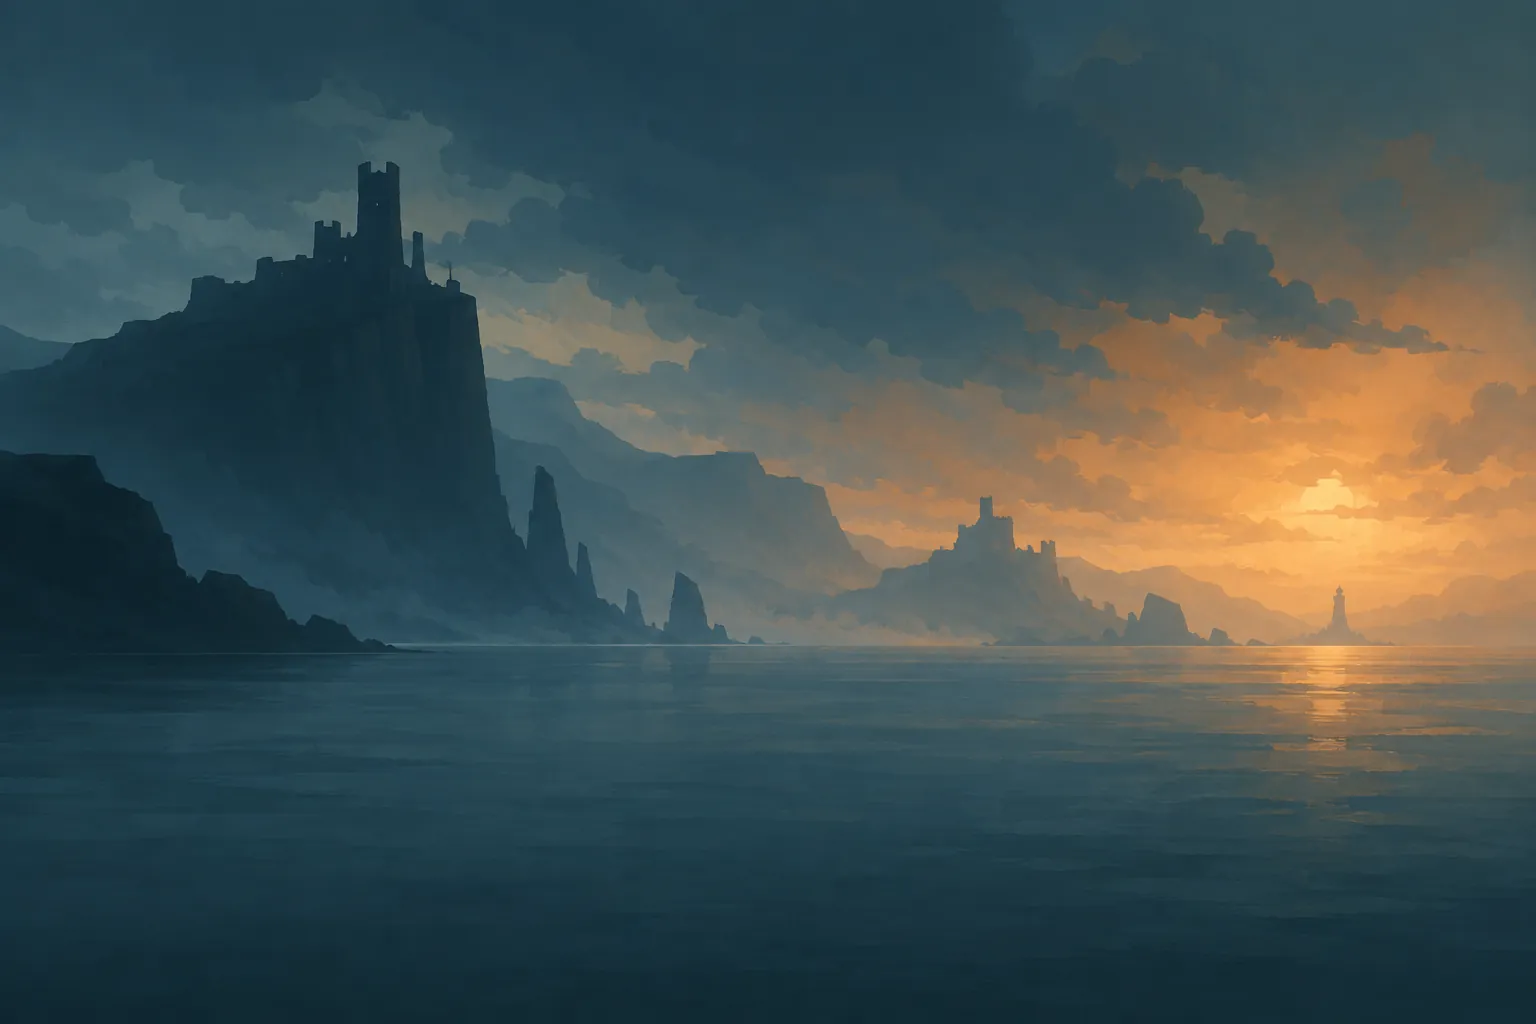
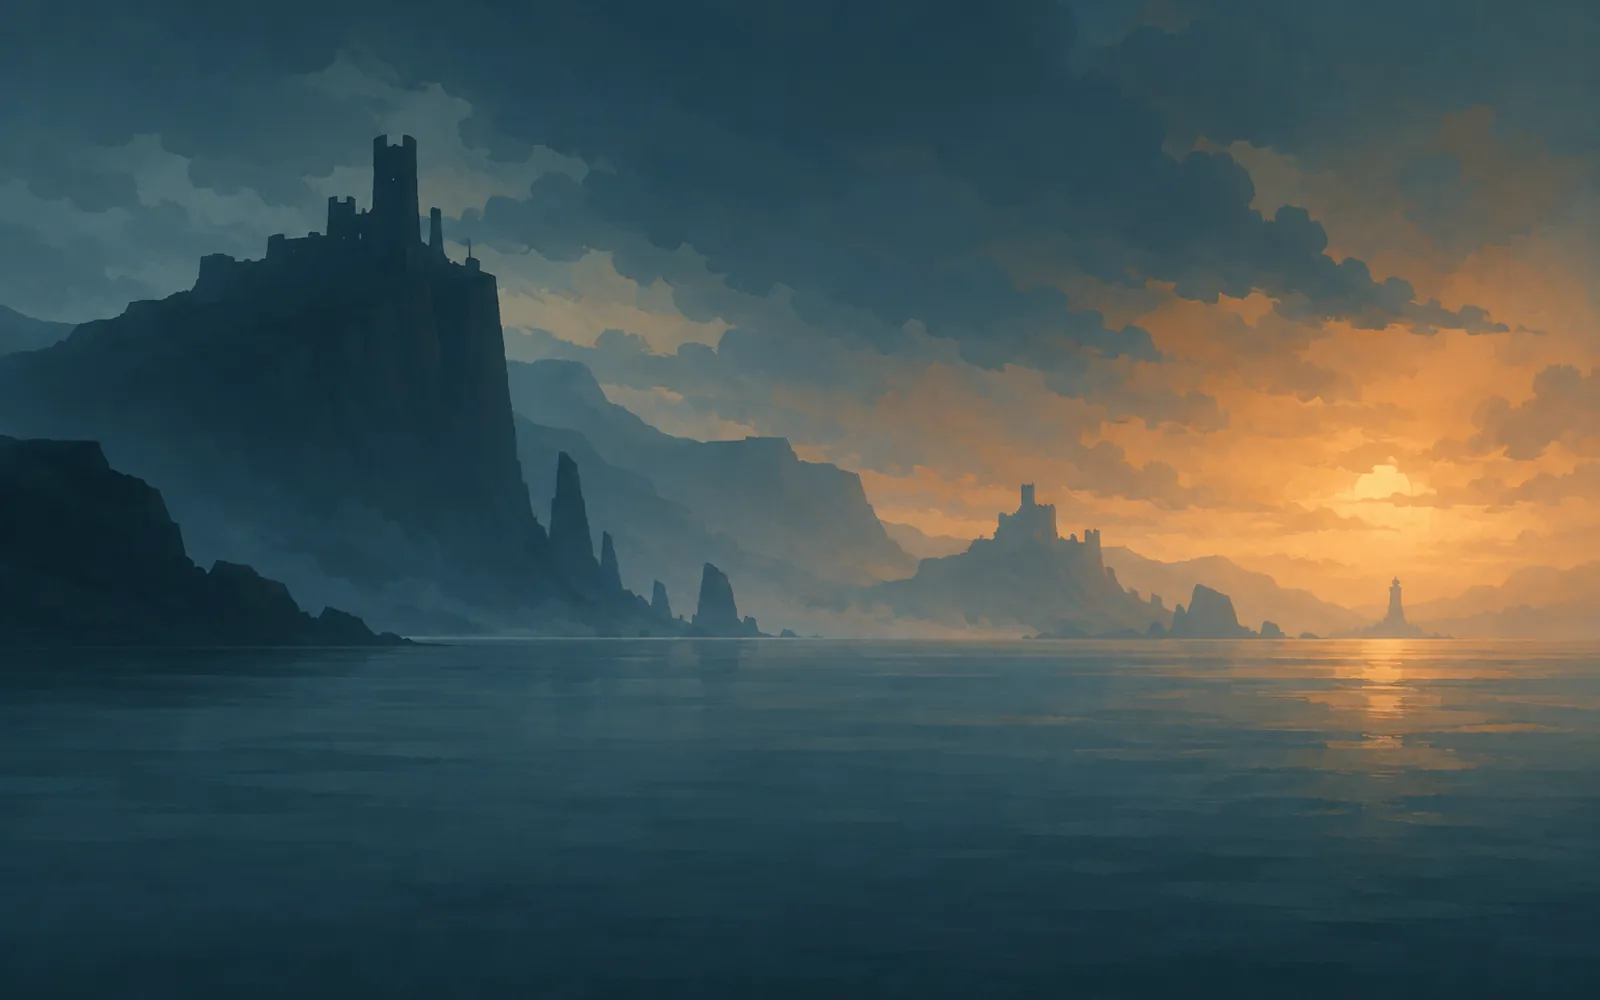
Add five more backdrops, and normalise every image to one aspect
writing, chamber, diary, prophecy and cave are painted; twelve of
forty-seven now have art. All clean — no lettering, no marks.

Two real fixes, one chased at length:

Portrait sources were being STRETCHED to fill a landscape plane, not
cropped. The texture was mapped 0..1 across a plane sized to the viewport,
so a 0.8-ratio image on a 1.6-ratio frame doubled horizontally. Fixed at
the source: optimize-art.mjs now crops every backdrop to a single 1600x1000
landscape, so the shader can assume one shape and the crop is decided by a
tool that can see the image rather than by arithmetic per frame. Layer also
carries cover-fit UVs as a safety net; the first attempt at that had the
scale inverted, which pushed UVs outside 0..1 where the texture clamps and
smears edge pixels into streaks.

The remaining "streaks" turned out not to be a bug at all. Draw-call and
triangle counts showed three planes rendering where one was expected, and
logging the mount window explained it: the screenshots were landing
mid-crossfade, with a painted scene at 53% blended over the NEXT scene,
which has no art yet and was drawing its procedural version underneath.
The procedural Hall of Prophecy's perspective shelf rows over a photograph
are what looked like streaks.

Worth keeping in mind while art is partial: a painted scene cross-fading
into a procedural one looks wrong in a way neither does alone. It resolves
as scenes get art, and it is a transition artifact rather than a defect.
[…]

diff --git a/src/story/Layer.tsx b/src/story/Layer.tsx
@@ -135,9 +135,20 @@ export function Layer({
       ? /* glsl */ `
           uniform sampler2D uMap;
           uniform float uOpacity;
+          uniform vec2 uCover;
           varying vec2 vUv;
           void main() {
-            vec4 c = texture2D(uMap, vUv);
+            // COVER fit, not stretch.
+            //
+            // The plane is sized to the viewport, so mapping the texture 0..1
+            // across it distorts any image whose aspect differs — a portrait
+            // source on a landscape plane gets stretched horizontally, which
+            // reads as horizontal smearing across the whole scene rather than
+            // as an obviously wrong image. uCover rescales UVs about the
+            // centre so the image fills the frame at its true aspect and the
+            // overflow is cropped instead.
+            vec2 uv = (vUv - 0.5) / uCover + 0.5;
+            vec4 c = texture2D(uMap, uv);
             gl_FragColor = vec4(c.rgb, c.a * uOpacity);
           }
         `
@@ -156,7 +167,7 @@ export function Layer({
         uInk: { value: new Color(palette.ink) },
         uAccent: { value: new Color(palette.accent) },
         uPointer: { value: new Vector2() },
-        ...(texture ? { uMap: { value: texture } } : {}),
+        ...(texture ? { uMap: { value: texture }, uCover: { value: new Vector2(1, 1) } } : {}),
       },
     })
   }, [shader, image, texture, palette.background, palette.ink, palette.accent])
@@ -170,6 +181,29 @@ export function Layer({
     if (u.uInk) (u.uInk.value as Color).set(palette.ink)
     if (u.uAccent) (u.uAccent.value as Color).set(palette.accent)
     if (u.uPointer) (u.uPointer.value as Vector2).set(pointer[0], pointer[1])
+
+    // Recomputed per frame because both the image and the viewport can change.
+    if (u.uCover && texture?.image) {
+      const iw = (texture.image as { width?: number }).width ?? 1
+      const ih = (texture.image as { height?: number }).height ?? 1
+      const imageAspect = iw / ih
+      const planeAspect = viewport.width / viewport.height
+      const v = u.uCover.value as Vector2
+      //
+      // The shader divides by uCover, so a value ABOVE 1 narrows the sampled
+      // range — which is what cropping means. Getting this inverted pushes UVs
+      // outside 0..1, where the texture clamps and smears its edge pixels
+      // across the frame as horizontal or vertical streaks. That looks like a
+      // rendering glitch rather than a wrong image, which is what made it hard
+      // to place.
+      if (imageAspect > planeAspect) {
+        // Image is wider than the frame: fill height, crop the sides.
+        v.set(imageAspect / planeAspect, 1)
+      } else {
+        // Image is taller than the frame: fill width, crop top and bottom.
+        v.set(1, planeAspect / imageAspect)
+      }
+    }
 
     // Parallax. Nearer layers move further, which is the whole illusion.
     if (mesh.current) {

diff --git a/src/story/parts.ts b/src/story/parts.ts
@@ -149,6 +149,7 @@ export const PARTS: Part[] = [
         prose:
           'Torchlight, wet stone, and a sentence written high enough that somebody had to have been lifted to write it. The water on the floor had not been there that morning.',
         art: 'corridor',
+        image: { back: 'scenes/writing.webp', mid: '', fore: '' },
       },
       {
         id: 'diary',
@@ -156,6 +157,7 @@ export const PARTS: Part[] = [
         prose:
           'The page drank the ink and gave it back as an answer. It was polite. It was patient. It had been waiting fifty years for somebody to write in it.',
         art: 'corridor',
+        image: { back: 'scenes/diary.webp', mid: '', fore: '' },
       },
       {
         id: 'chamber',
@@ -163,6 +165,7 @@ export const PARTS: Part[] = [
         prose:
           'Stone serpents the height of houses, green water, and something enormous moving just outside the reach of the light.',
         art: 'chamber',
+        image: { back: 'scenes/chamber.webp', mid: '', fore: '' },
       },
       {
         id: 'fang',
@@ -292,6 +295,7 @@ export const PARTS: Part[] = [
         prose:
           'Shelves running away into the dark in every direction, each one holding a small glass sphere, each sphere holding somebody’s whole life said out loud once.',
         art: 'prophecy',
+        image: { back: 'scenes/prophecy.webp', mid: '', fore: '' },
       },
       {
         id: 'shatter',
@@ -337,6 +341,7 @@ export const PARTS: Part[] = [
         prose:
           'Black water, a ring of green fire, and a basin that had to be emptied by somebody willing to keep drinking. Hands came out of the lake when the light went down.',
         art: 'cave',
+        image: { back: 'scenes/cave.webp', mid: '', fore: '' },
       },
       {
         id: 'towerfall',
